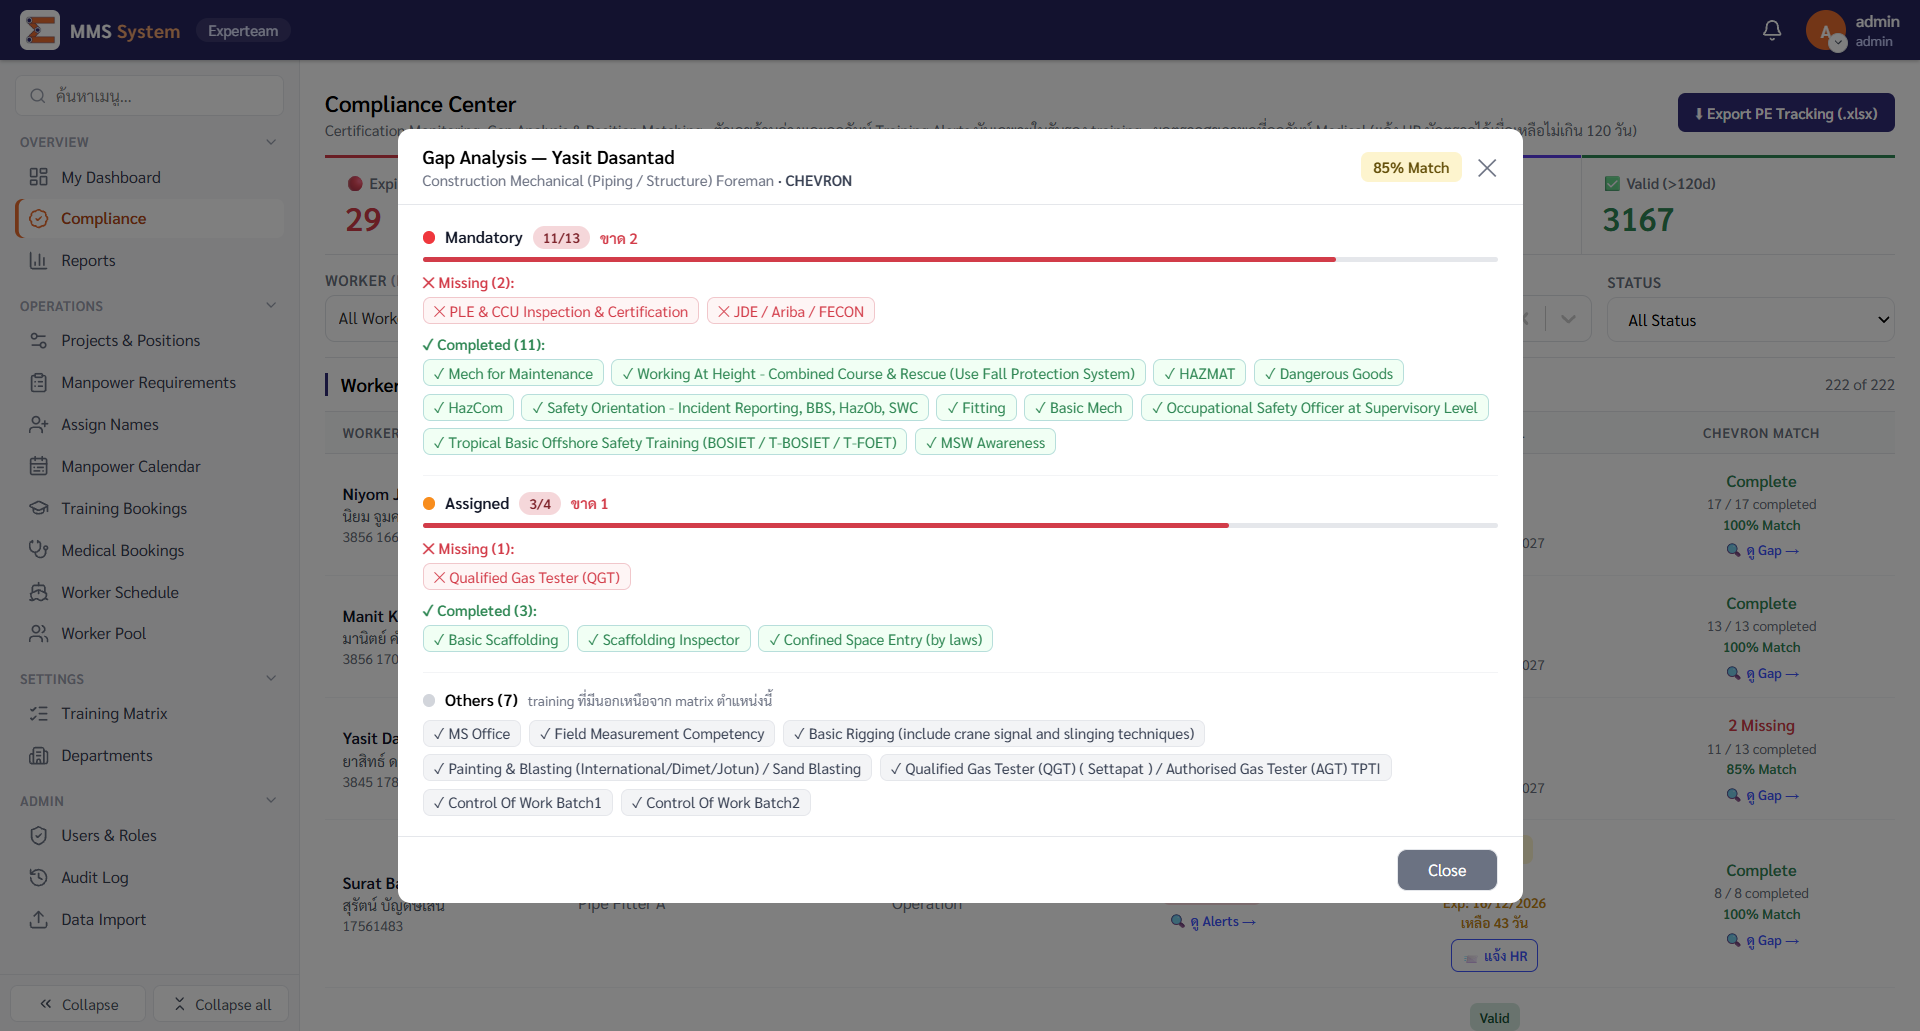
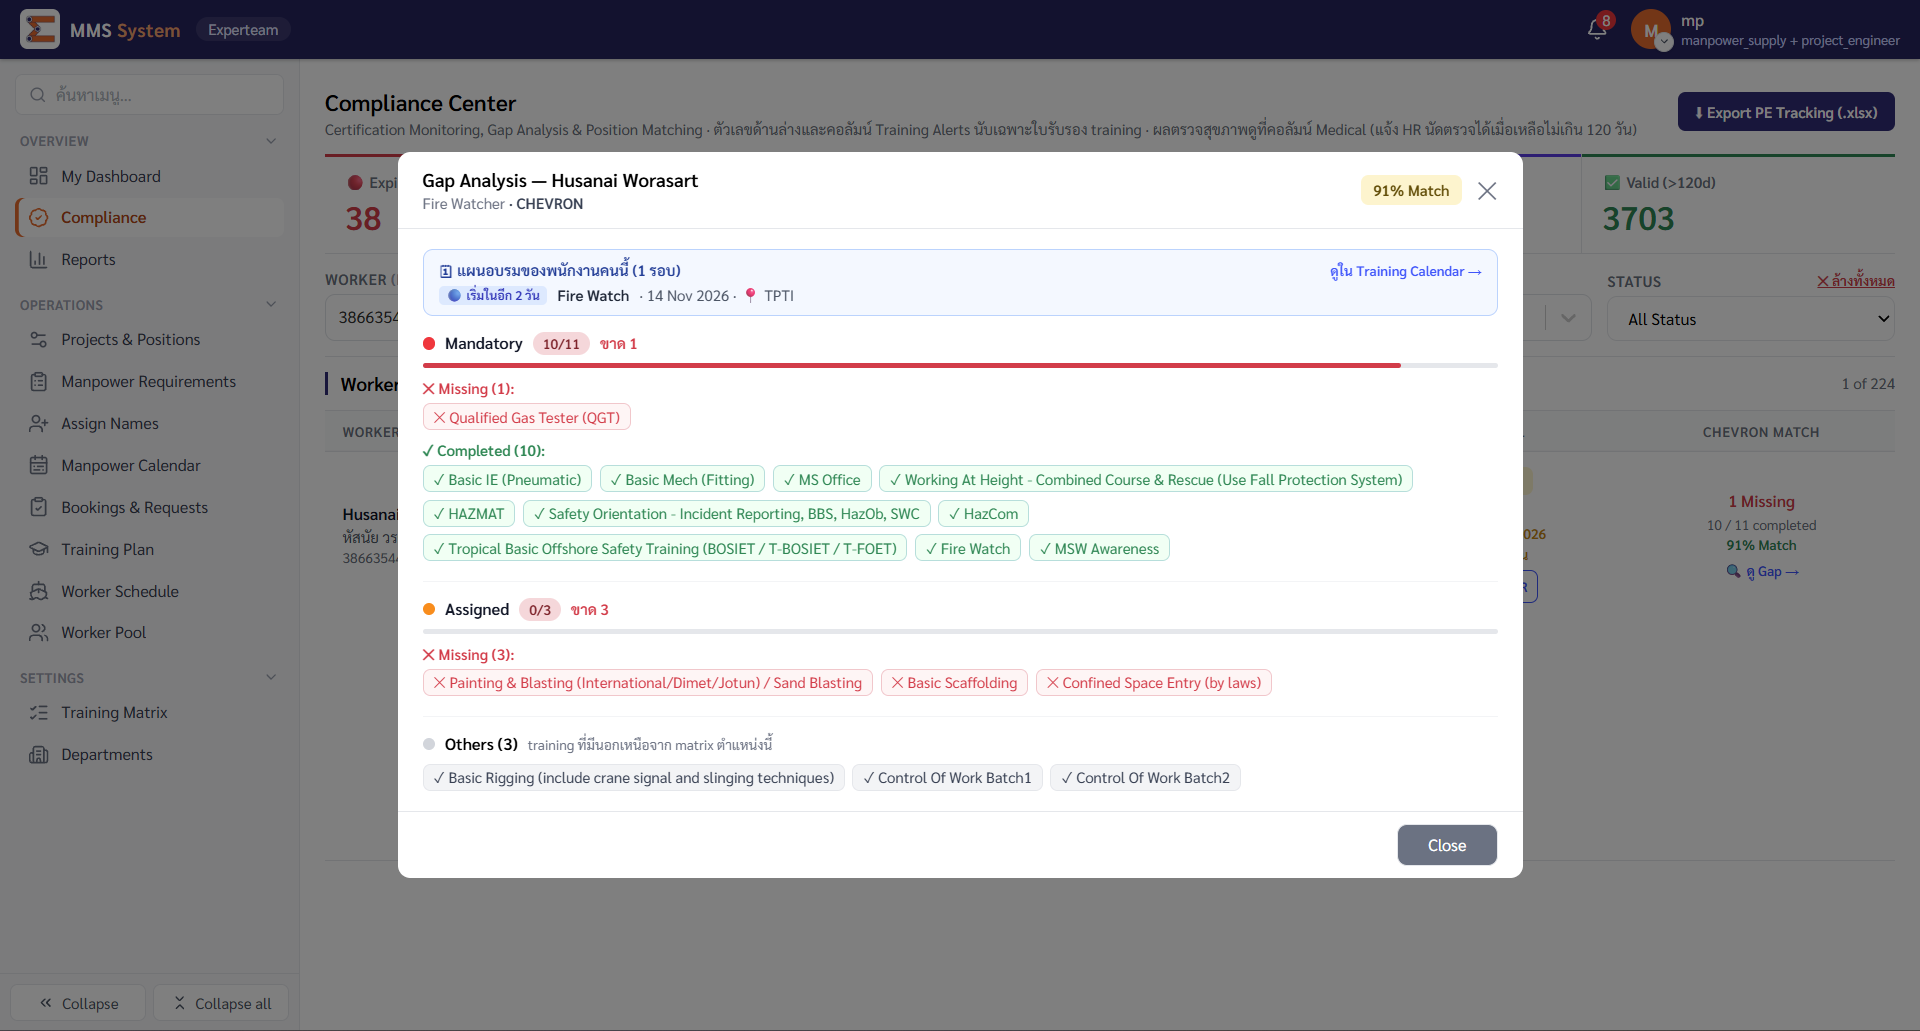
feat(sidebar): move Collapse / Collapse all under the menu search
- Collapse + Collapse all/Expand all now sit in a compact row under the
  search box (like CES) instead of a fixed footer; footer removed
- Rail mode: expand (») button at the top; search icon expands the
  sidebar and focuses the search input
- Collapsed section containing the current page shows an orange dot

diff --git a/frontend/src/components/layout/Sidebar.jsx b/frontend/src/components/layout/Sidebar.jsx
@@ -1,4 +1,4 @@
-import React, { useContext, useEffect, useMemo, useState } from "react";
+import React, { useContext, useEffect, useMemo, useRef, useState } from "react";
 import { Link, useLocation } from "react-router-dom";
 import {
   Search,
@@ -16,8 +16,10 @@ import { APP_MENU, findMenuEntry, visibleTabs } from "./sidebarMenu";
 // ══════════════════════════════════════════════════════════
 // Sidebar — พื้นเทาอ่อน ตัดกับเนื้อหาพื้นขาว · อยู่ใต้ Navbar (โลโก้ + MMS System ย้ายไปอยู่ที่ Navbar แล้ว)
 //   • ช่องค้นหาเมนู (ค้นทั้งชื่อเมนูและชื่อแท็บ เช่น "PE Approvals")
-//   • กดชื่อ section เพื่อพับ/กาง · ปุ่ม Collapse all / Expand all
-//   • ปุ่ม Collapse = ย่อเหลือแต่ icon (จำค่าไว้ในเบราว์เซอร์)
+//   • ใต้ช่องค้นหา: ปุ่ม Collapse (ย่อเหลือแต่ icon · จำค่าไว้ในเบราว์เซอร์) + Collapse all / Expand all (พับ/กางทุก section)
+//     — วางบนสุดคู่กับช่องค้นหา (แบบ CES) ไม่กินพื้นที่ล่างของรายการเมนู
+//   • กดชื่อ section เพื่อพับ/กาง · section ที่พับอยู่แต่มีหน้าปัจจุบัน → จุดส้มที่หัว section
+//   • โหมด icon: ปุ่ม » (ขยาย) อยู่บนสุด · กดไอคอนค้นหา = ขยาย + โฟกัสช่องค้นหาให้พิมพ์ได้ทันที
 //   • มือถือ: เลื่อนออกมาทับหน้า (open / onClose จาก Layout)
 //
 // ใช้ <Link> (แท็ก <a href>) → คลิกขวา "เปิดในแท็บใหม่", Ctrl/Cmd+คลิก ใช้ได้ปกติ
@@ -28,7 +30,13 @@ const ITEM_BASE =
 const ITEM_ACTIVE = "bg-white font-semibold text-[#c2410c] shadow-[inset_3px_0_0_#F16726]";
 const ITEM_IDLE = "text-gray-700 hover:bg-gray-200/70 hover:text-gray-900";
 
-const SECTIONS_KEY = "sidebar_collapsed_sections";
+// ปุ่มใต้ช่องค้นหา (Collapse / Collapse all) และปุ่มในโหมด icon
+const CTRL_BTN =
+  "flex-1 cursor-pointer items-center justify-center gap-1 rounded-md border border-gray-200 bg-white py-1 text-[11px] text-gray-600 hover:bg-gray-50 hover:text-gray-900 disabled:cursor-default disabled:opacity-50";
+const RAIL_BTN =
+  "flex h-8 w-8 cursor-pointer items-center justify-center rounded-md border border-gray-200 bg-white text-gray-500 hover:bg-gray-50 hover:text-gray-800";
+
+const SECTIONS_KEY ="sidebar_collapsed_sections";
 
 const readSet = () => {
   try {
@@ -58,6 +66,20 @@ const Sidebar = ({
 
   // มือถือแสดงเต็มเสมอ — ย่อเหลือ icon เฉพาะจอ md ขึ้นไป
   const rail = collapsed && !open;
+
+  // กดไอคอนค้นหาในโหมด icon → ขยายเมนูแล้วโฟกัสช่องค้นหา
+  const searchRef = useRef(null);
+  const [focusSearch, setFocusSearch] = useState(false);
+  useEffect(() => {
+    if (!rail && focusSearch) {
+      searchRef.current?.focus();
+      setFocusSearch(false);
+    }
+  }, [rail, focusSearch]);
+  const openSearch = () => {
+    setFocusSearch(true);
+    onToggleCollapsed();
+  };
 
   // กด Esc ปิดเมนู (มือถือ)
   useEffect(() => {
@@ -124,21 +146,27 @@ const Sidebar = ({
           ${rail ? "w-14" : "w-60"}
           md:sticky md:top-12 md:z-30 md:self-start md:h-[calc(100vh-3rem)] md:translate-x-0`}
       >
-        {/* ── ค้นหาเมนู ── */}
+        {/* ── ค้นหาเมนู + ปุ่มควบคุมเมนู (บนสุด) ── */}
         {rail ? (
-          <button
-            type="button"
-            onClick={onToggleCollapsed}
-            title="ค้นหาเมนู"
-            className="mx-auto mt-3 flex h-8 w-8 shrink-0 cursor-pointer items-center justify-center rounded-md border border-gray-200 bg-white text-gray-500 hover:bg-gray-50"
-          >
-            <Search size={15} />
-          </button>
+          <div className="flex shrink-0 flex-col items-center gap-1.5 border-b border-gray-200 pb-2 pt-3">
+            <button
+              type="button"
+              onClick={onToggleCollapsed}
+              title="ขยายเมนู"
+              className={RAIL_BTN}
+            >
+              <ChevronsRight size={15} />
+            </button>
+            <button type="button" onClick={openSearch} title="ค้นหาเมนู" className={RAIL_BTN}>
+              <Search size={15} />
+            </button>
+          </div>
         ) : (
-          <div className="shrink-0 px-3 pt-3">
+          <div className="shrink-0 border-b border-gray-200 px-3 pb-2 pt-3">
             <div className="flex items-center gap-2 rounded-md border border-gray-200 bg-white px-2.5 py-1.5 focus-within:border-[#F16726]">
               <Search size={14} className="shrink-0 text-gray-400" />
               <input
+                ref={searchRef}
                 value={q}
                 onChange={(e) => setQ(e.target.value)}
                 onKeyDown={(e) => e.key === "Escape" && setQ("")}
@@ -156,6 +184,27 @@ const Sidebar = ({
                 </button>
               )}
             </div>
+            <div className="mt-1.5 flex gap-1.5">
+              {/* มือถือไม่มีโหมด icon → ซ่อนปุ่ม Collapse */}
+              <button
+                type="button"
+                onClick={onToggleCollapsed}
+                title="ย่อเมนูเหลือแต่ไอคอน"
+                className={`${CTRL_BTN} hidden md:flex`}
+              >
+                <ChevronsLeft size={13} /> Collapse
+              </button>
+              <button
+                type="button"
+                onClick={toggleAll}
+                disabled={searching}
+                title={searching ? "ล้างคำค้นก่อน" : allClosed ? "กางทุก section" : "พับทุก section"}
+                className={`${CTRL_BTN} flex`}
+              >
+                {allClosed ? <ChevronsUpDown size={13} /> : <ChevronsDownUp size={13} />}
+                {allClosed ? "Expand all" : "Collapse all"}
+              </button>
+            </div>
           </div>
         )}
 
@@ -170,6 +219,7 @@ const Sidebar = ({
           )}
           {groups.map((group, idx) => {
             const closed = !searching && !rail && closedSections.has(group.section);
+            const hasCurrent = closed && group.items.some(({ item }) => item === currentItem);
             return (
               <div key={group.section || idx} className={idx > 0 ? "mt-2" : ""}>
                 {rail ? (
@@ -181,7 +231,15 @@ const Sidebar = ({
                       onClick={() => toggleSection(group.section)}
                       className="flex w-full cursor-pointer items-center justify-between border-none bg-transparent px-1 py-1 text-left text-[11px] font-semibold uppercase tracking-wide text-gray-400 hover:text-gray-600"
                     >
-                      {group.section}
+                      <span className="flex items-center gap-1.5">
+                        {group.section}
+                        {hasCurrent && (
+                          <span
+                            title={`หน้าปัจจุบันอยู่ในหมวดนี้ (${currentItem.name})`}
+                            className="h-1.5 w-1.5 rounded-full bg-[#F16726]"
+                          />
+                        )}
+                      </span>
                       <ChevronDown
                         size={13}
                         className={`transition-transform ${closed ? "-rotate-90" : ""}`}
@@ -229,34 +287,6 @@ const Sidebar = ({
             );
           })}
         </nav>
-
-        {/* ── ปุ่มด้านล่าง ── */}
-        <div
-          className={`flex shrink-0 gap-1.5 border-t border-gray-200 p-2 ${rail ? "flex-col items-center" : ""}`}
-        >
-          <button
-            type="button"
-            onClick={onToggleCollapsed}
-            title={rail ? "ขยายเมนู" : "ย่อเมนูเหลือแต่ไอคอน"}
-            className={`hidden cursor-pointer items-center justify-center gap-1.5 rounded-md border border-gray-200 bg-white py-1.5 text-xs text-gray-600 hover:bg-gray-50 md:flex ${
-              rail ? "w-9" : "flex-1"
-            }`}
-          >
-            {rail ? <ChevronsRight size={15} /> : <><ChevronsLeft size={14} /> Collapse</>}
-          </button>
-          {!rail && (
-            <button
-              type="button"
-              onClick={toggleAll}
-              disabled={searching}
-              title={allClosed ? "กางทุก section" : "พับทุก section"}
-              className="flex flex-1 cursor-pointer items-center justify-center gap-1.5 rounded-md border border-gray-200 bg-white py-1.5 text-xs text-gray-600 hover:bg-gray-50 disabled:cursor-default disabled:opacity-50"
-            >
-              {allClosed ? <ChevronsUpDown size={14} /> : <ChevronsDownUp size={14} />}
-              {allClosed ? "Expand all" : "Collapse all"}
-            </button>
-          )}
-        </div>
       </aside>
     </>
   );
